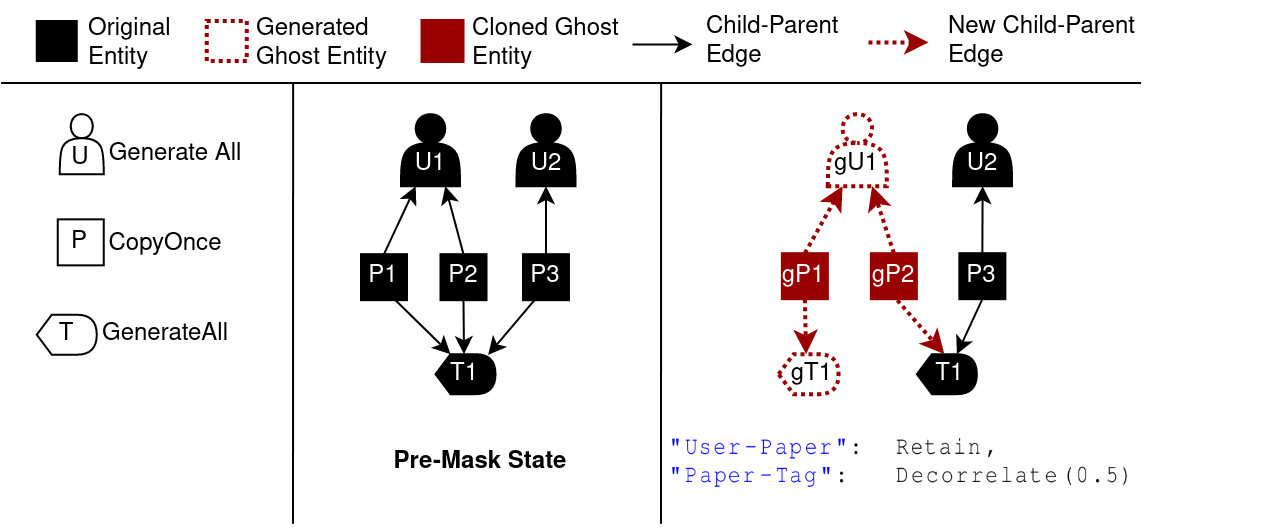
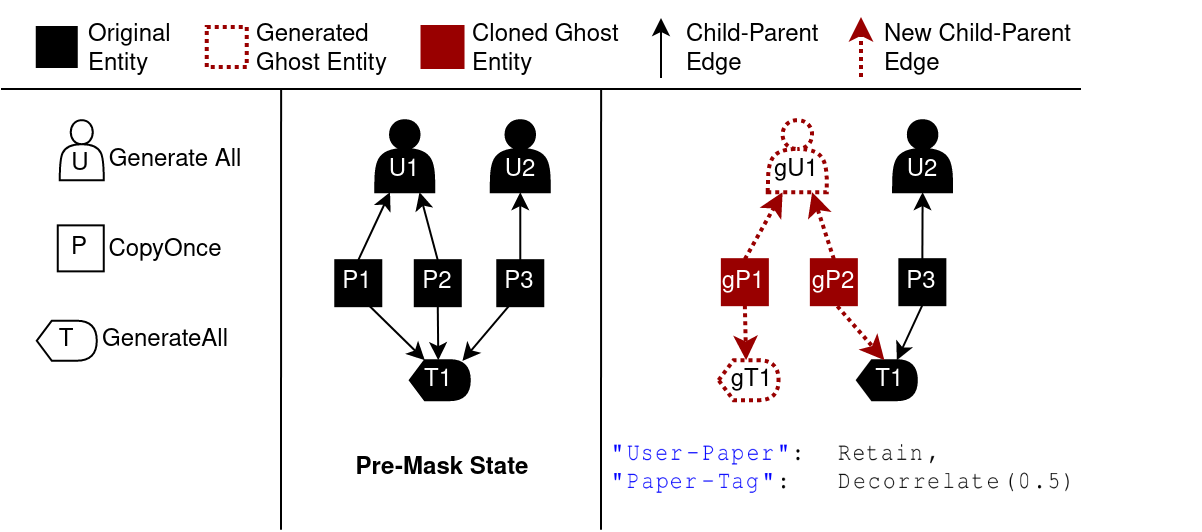
add examples for edge policies

diff --git a/hotos21/design.tex b/hotos21/design.tex
@@ -151,7 +151,7 @@ The possible transformations include:
 
 \begin{figure}[t!]
     \centering
-    \includegraphics[width=0.5\textwidth]{img/child-parent}
+    \includegraphics[width=0.54\textwidth]{img/child-parent}
 
     \iffalse
 \begin{lstlisting}[language=Rust]
@@ -165,7 +165,6 @@ The possible transformations include:
     }
     \label{fig:sensitivity}
 \end{figure}
-
 
 While entity type transformations specify how to create ghost entities, edge transformations 
 specify how ghosts restructure the entity graph.
@@ -183,11 +182,14 @@ default replaced by ghosts.
 
 The developer specifies transformations for each parent-child edge type, choosing from the following:
 \begin{enumerate}
+    \item \textbf{Retain} edges from sensitive children to the parent. Figure~\ref{fig:edgepol}a
+        shows how the entity graph is transformed when all edges are retained; \sys ghosts
+        sensitive entities according to the specified entity transformation.
     \item \textbf{Decorrelate} edges from sensitive children by replacing edges to the parent with
         ones to a unique ghost parent, generated using the parent as a template:
-        child edge attribute values will identify unique ghost parents.
-    \item \textbf{Delete} edges from sensitive children by removing the child and its descendants.
-    \item \textbf{Retain} edges from sensitive children to the parent.
+        child edge attribute values will identify unique ghost parents (Figure~\ref{fig:edgepol}b).
+    \item \textbf{Delete} edges from sensitive children by removing the child and its descendants
+        (Figure~\ref{fig:edgepol}c).
 \end{enumerate}
 
 Some policies also need to decorrelate or delete edges from sensitive children to parents that are
@@ -200,24 +202,8 @@ can reidentify the user, and want to decorrelate the paper from the tag.
 sensitive entities. The developer chooses whether to decorrelate or delete edges to meet this
 threshold. In the paper-tag example, a reasonable sensitivity threshold might be $0.1$: fewer than
 10\% of all papers with a specific tag key should be correlated with an (unsubscribed) user.
-%Developers use their knowledge of application semantics to determine appropriate thresholds for
-%each
-%edge type, estimating how much sensitive information may leak from edge instances of that type.
-%Decorrelation requires
-%reassigning children with the same parent entity to different generated ghost parents.
-
-%For each parent, \sys decorrelates or deletes edges to children only enough to achieve the specified
-%threshold, and retains the remaining edges.
-%Note that if all children are sensitive (a user's papers
-%are always sensitive), or if the sensitivity threshold is 0, \sys will decorrelate or delete all
-%children.
-%On the other hand, if the developer specifies a sensitivity threshold of 1, \sys retains all
-%correlations between children and the parent. Developers should select this option only if the
-%developer knows that these correlations cannot collectively leak identifying information, and/or if
-%the application's functionality would be impacted by deleting or decorrelating this type of edge.
-%If \sys retains any edges from children to the parent, \sys generates a single ghost parent entity using the
-%parent as a template. The ghost parent adopts all children that remained correlated with the real
-%parent by replacing the childrens' edge attribute with the ghost's identifier.
+Figure~\ref{fig:sensitivity} shows an example in which paper-tag edges are decorrelated to meet a
+threshold of 0.5.
 
 %%%%%%%%%%%%%%%%%%%%%%%%%%%%%%%%%%%%%%%%%%%%%%%%%%%%%%%%%%%%%%%%%%%%%%%%%%%%%%%%%%%%%%%%%%%%%%%%%%%%%%
 %%%%%%%%%%%%%%%%%%%%%%%%%%%%%%%%%%%%%%%%%%%%%%%%%%%%%%%%%%%%%%%%%%%%%%%%%%%%%%%%%%%%%%%%%%%%%%%%%%%%%%
